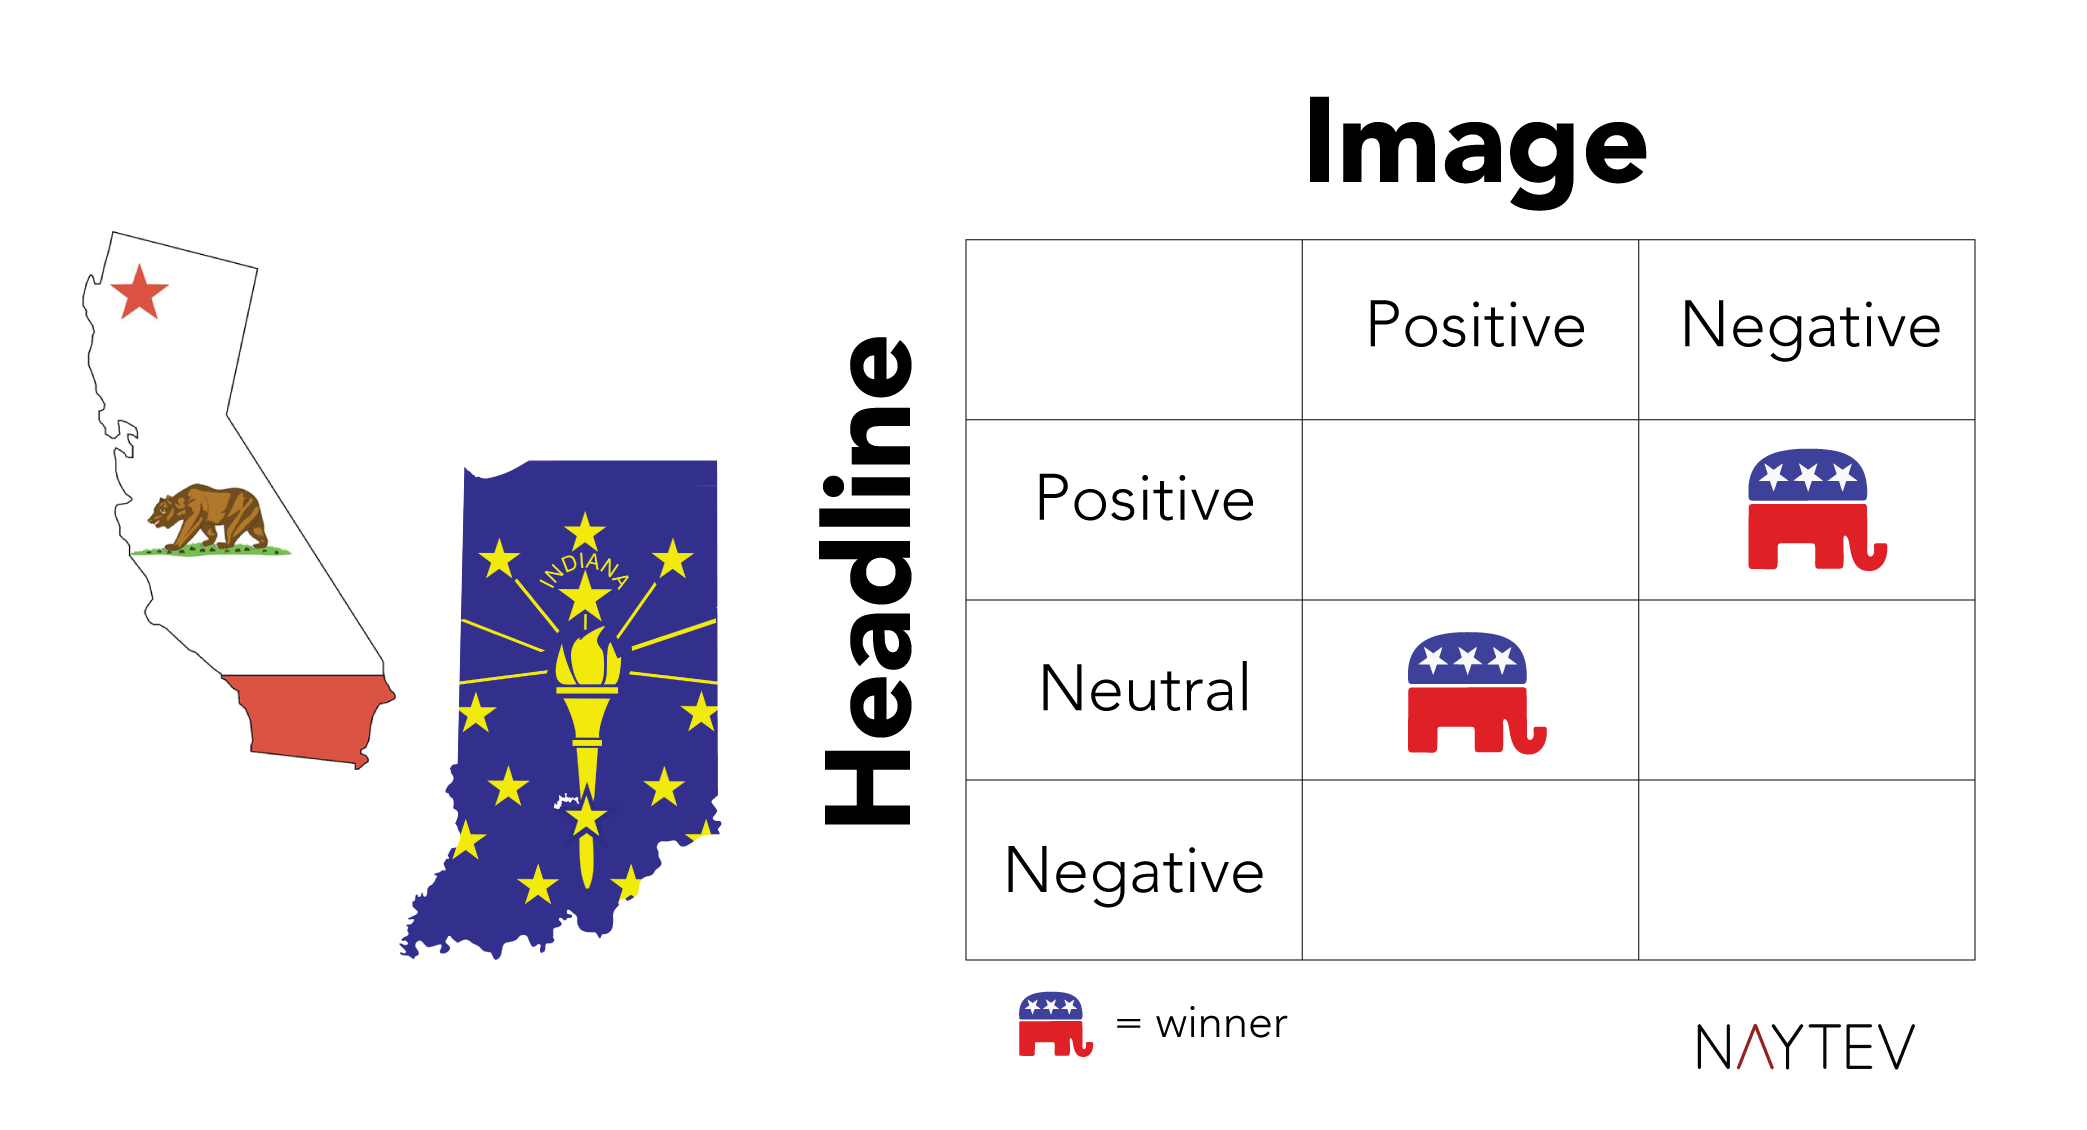
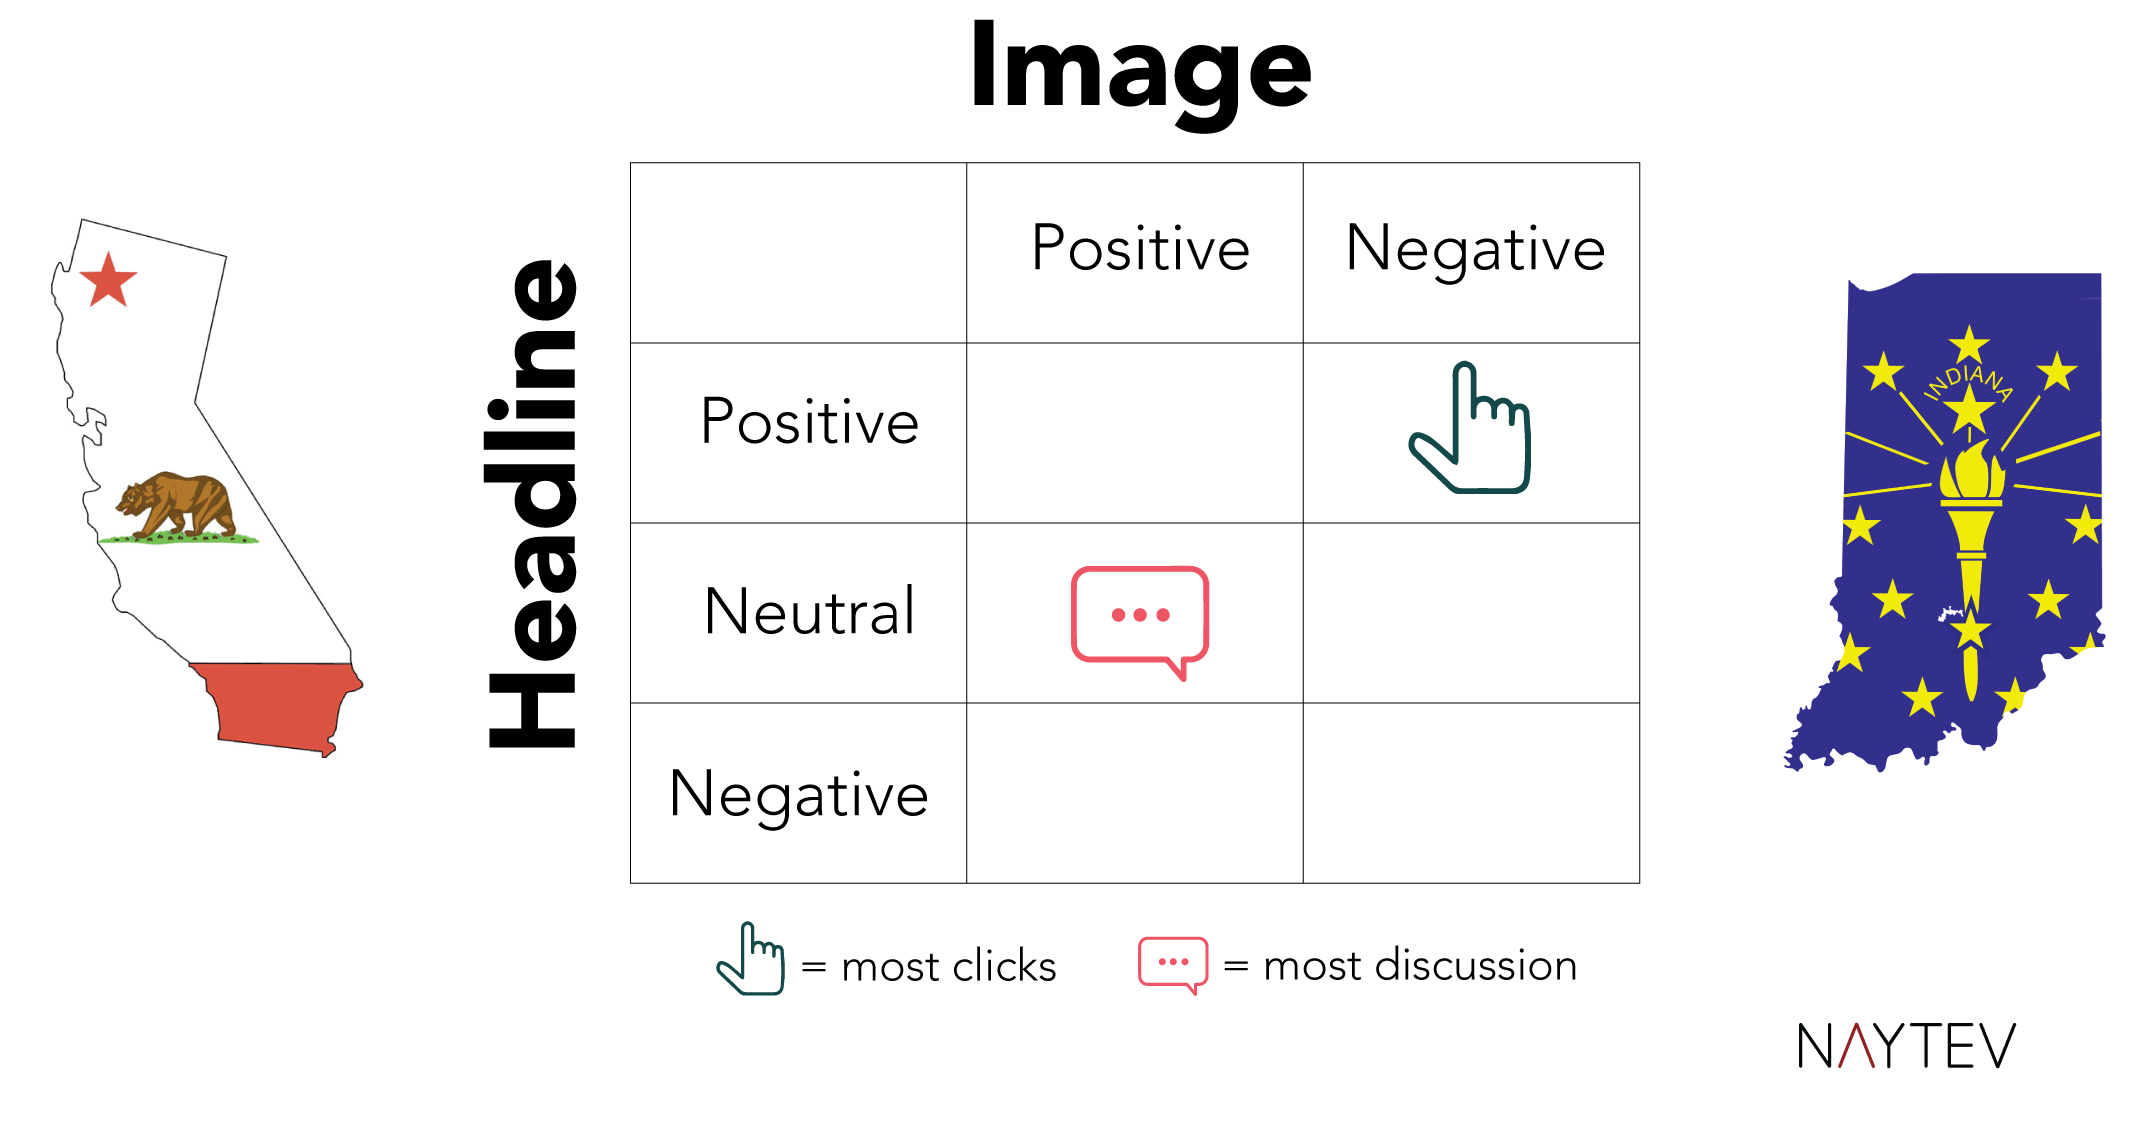
pic updates

diff --git a/_posts/2016-5-02-test-to-stop-trump.md b/_posts/2016-5-02-test-to-stop-trump.md
@@ -8,47 +8,48 @@ author: zack_liscio
 og_image: posts/stop-trump/trumpog.png
 ---
 
-With the seeming inevitability of Trump winning the Republican nomination, his campaign (and hopefully not the future of humanity) seems to hinge upon two states: Indiana and California. Writing in the New York Times, Nate Cohn says the two states ["crucial prizes that would put Mr. Trump over the top"](http://www.nytimes.com/2016/04/27/upshot/why-donald-trump-is-probably-two-states-from-victory.html). We decided to try a small experiment to see how we could use Facebook's rich targeting data and powerful distribution to tip the scales in these races. To explore the concept, we tested different versions of Trump-related messaging to find the optimal way to capture attention among the voters he needs to win. 
+With the seeming inevitability of Trump winning the Republican nomination, his campaign (and hopefully not the future of humanity) seems to hinge upon two states: Indiana and California. Writing in the New York Times, Nate Cohn says the two states are ["crucial prizes that would put Mr. Trump over the top"](http://www.nytimes.com/2016/04/27/upshot/why-donald-trump-is-probably-two-states-from-victory.html). We decided to try a small experiment to see how we could use Facebook's rich targeting data and powerful distribution to tip the scales in these races. To explore the concept, we tested different versions of Trump-related messaging to find the optimal way to capture attention among the voters he needs to win. 
 
-In order to theoretically stop Trump, we would need to convince those who would vote for him that he shouldn't be President. First, we need to figure out how to capture their attention. This post explores how to use A/B testing on Facebook to find the ideal messaging (positive vs. negative) to maximize engagement among the population likely to vote for him. 
+In order to theoretically stop Trump, we would need to convince those who would vote for him that he shouldn't be President. First, we need to figure out how to capture their attention. This post explores how to use A/B testing on Facebook to find the ideal messaging (positive vs. negative) to maximize engagement among the population likely to vote for Trump. 
 
-We recognize that while this test is an interesting exploration of which messages are best at capturing attention (acquisition), that's not a substitute for changing minds (conversion). That said, competing for visibility in the Facebook News Feed is an essential part of communications and reaching this target audience is a prerequisite for influencing their behavior.
+We recognize that while this test is an interesting exploration of which messaging captures voter attention (acquisition), this test doesn't focus on which messaging could change voters' minds (conversion). That said, competing for visibility in the Facebook News Feed is an essential part of communications and reaching voters is a prerequisite for influencing their behavior.
 
-It's worth mentioning that we not a political advertising agency, strategy firm, or in any way related to the race beyond watching with fascination.
+It's worth mentioning that we're not a political advertising agency, strategy firm, or in any way related to the race beyond watching as fascinated observers.
 
 To get our test started, we set a few constraints for ourselves:
 
-* **Timeframe:** with only a few days before the Indiana Primary, we set the ads to run over the course of 24 hours
-* **Budget:** we limited budget to $200, and allowed ourselves to use our own <a href='https://www.naytev.com' target="_blank">testing software</a> for free. It would also be possible to run this exact test directly through Facebook's Power Editor, just more time-consuming. Each variation on the message is created as a Facebook Unpublished Page Post and compared in terms of engagement.
+* **Timeframe:** with only a few days before the Indiana Primary, we set the test messages to run over the course of 24 hours
+* **Budget:** we limited the test budget to $200, and allowed ourselves to use our own <a href='https://www.naytev.com' target="_blank">testing software</a> for free. It would also be possible to run this exact test directly through Facebook's Power Editor, but doing so would take hours longer. Each variation on the message is created as a Facebook Unpublished Page Post ([aka Dark Posts]({% post_url 2015-9-20-what-and-why-is-dark-post-testing %})) and compared in terms of post engagement.
 
 Here's how we did it:
 
 * **1. Create Facebook Audiences**
-  Among the most important questions in this kind of test is who to target. Luckily, The Atlantic wrote an article about the demographics of Donald Trump supporters](http://www.theatlantic.com/politics/archive/2016/03/who-are-donald-trumps-supporters-really/471714/). The articles points out that the "single best predictor of Trump support in the GOP primary is the absence of a college degree." The New York Times [corroborated this finding](http://www.nytimes.com/2016/03/13/upshot/the-geography-of-trumpism.html), so we used it as our targeting criteria to design two Facebook Audiences, one for Indiana and one for California, where we're interested in changing hearts and minds.
+  Among the most important questions in this kind of test is who to target. Luckily, The Atlantic wrote an [article about the demographics of Donald Trump supporters](http://www.theatlantic.com/politics/archive/2016/03/who-are-donald-trumps-supporters-really/471714/). The article points out that the "single best predictor of Trump support in the GOP primary is the absence of a college degree." The New York Times [corroborated this finding](http://www.nytimes.com/2016/03/13/upshot/the-geography-of-trumpism.html), so we focused on voting age adults (18+) without a college degree as our target audience in Indiana and California.
 
-  We created these audiences directly in Facebook's Power Editor: Audiences >> Create Audience >> Saved Audience so that we could target by any data Facebook has available. For good measure, we also included people with an interest in "Donald Trump".
+  We created our target audiences for each state directly in Facebook's Power Editor: Audiences >> Create Audience >> Saved Audience so that we could target by any data Facebook has available.
 
 <div class="full zoomable"><img src="/images/posts/stop-trump/californiaresidents.png"></div>
 
-  Because the absence of a college degree was such a strong predictor, we excluded anyone with one from our test.
+  Because the absence of a college degree was such a strong predictor of support for Donald Trump, we excluded anyone with a degree from our test.
 
 <div class="full zoomable"><img src="/images/posts/stop-trump/education.png"></div>
 
-  Our final audiences have 1.7M people in Indiana and 12M people in California.
+  Our final audiences have 1.7 million people in Indiana and 12 million people in California.
 
-<div class="full zoomable"><img src="/images/posts/stop-trump/audiences.png"></div>  
+<div class="full zoomable"><img src="/images/posts/stop-trump/audiences.png"></div>
+*Facebook Audience of Adults Without College Degrees*  
 
 * **2. Design Test Messaging**
 
-  We want to convince voters that Trump is the wrong choice for their state. Let's test a handful of different messages and thumbnail images, varying positive vs. neutral vs. negative sentiments. As they're not frequently seen anyway, we didn't include descriptions. We also included the relevant state name for each.
+  We want to understand which style of messaging best engages voters who fall within the core base of Trump voters. Let's test different messages and thumbnail images, varying positive vs. neutral vs. negative sentiments. We didn't include descriptions, as they're not frequently seen anyway. We also included the relevant state name for each message.
 
-  ##### Post Message:
-  - We kept the post message constant across all variants: The [Indiana, California] Republican Primary is coming up soon
+  ##### Post Text:
+  - We kept the post text, which is the messaging that appears above the image in a Facebook post, constant and neutral for all message variants: "The [Indiana, California] Republican Primary is coming up soon"
 
   ##### Headlines:
-  - Positive: Why you should vote Trump if you live in [Indiana, California]
-  - Neutral: Should you vote for Donald Trump if you live in [Indiana, California]?
-  - Negative: Trump Would be a Disaster for [Indiana, California]
+  - Positive: "Why you should vote Trump if you live in [Indiana, California]"
+  - Neutral: "Should you vote for Donald Trump if you live in [Indiana, California]?"
+  - Negative: "Trump Would be a Disaster for [Indiana, California]"
 
   ##### Images:
   - Positive: We used Trump's own official image from his campaign website
@@ -56,39 +57,40 @@ Here's how we did it:
   - Neutral: We didn't include a "neutral" image as we couldn't find a Trump shot that our team could agree was neutral.
 
   ###### Call To Action:
-  For all of our message variants, we sent the clicks from the ads to [ISideWith.com](https://www.isidewith.com/), a non-partisan site that helps voters understand which candidate aligns with their views. It would be incredibly interesting to see how we can influence conversion for a specific call to action using different presentations of content in the News Feed, but we'll save that for another day.
+  We arranged for all test messages to direct post clicks to [ISideWith.com](https://www.isidewith.com/), a non-partisan website that helps voters understand which candidate aligns with their views. It would be incredibly interesting to see how we can influence conversion for a specific call to action using different presentations of content in the News Feed, but we'll save that for another day.
 
 * **3. Run Dark Tests**
 
-  We loaded all of our versions of the headlines and images into Naytev and generated every available combination (2 images x 3 headlines = 6 messages per test), and paired each state's messaging with its' audience. The tests each received $100 in Facebook Ad Spend to test their messages.
+  We loaded all of our versions of the headlines and images into Naytev, generated every available combination (2 images x 3 headlines = 6 messages per test), and paired each state's messaging with its respective audience. Pairing messages created some mixed sentiment posts (e.g. silly Trump image + pro Trump headline), which we were curious to evaluate too. We applied a $100 ad spend for both the California and Indiana test messages, for a total spend of $200.
 
 <div class="full zoomable"><img src="/images/posts/stop-trump/california.png"></div>
+*Preview of California Test Messages: Positive, Negative, Neutral, and Mixed*
 
 * **4. Analyze Results**
 
-  Here are the finished results of the test for California:
+  Here are the finished results:
 
 <div class="full zoomable"><img src="/images/posts/stop-trump/californiaresults.png"></div>
-
-  and Indiana: 
+*California Results: Slightly Pro-Trump Message Engages Most*
 
 <div class="full zoomable"><img src="/images/posts/stop-trump/indianaresults.png"></div>
+*Indiana Results: Similar Messaging Ranking, but Weaker Discourse than California*
 
   What did we learn? Here are our main takeaways:
 
-  - There is no single "all-purpose best" messaging, and the optimal combination of messaging depends on your goal. For instance, the message combinations with the highest engagement (mostly comments and re-shares) was different in both states from the message with the highest clickthrough rate (CTR) and loweest cost per click (CPC).
+  - There is no single "all-purpose best" messaging, and the optimal combination of messaging depends on your goal. For instance, the message combinations with the highest engagement (mostly comments and re-shares) was different in both states from the message with the highest clickthrough rate (CTR) and lowest cost per click (CPC).
 
-  - The neutral headline phrased as a question drove the highest post engagement in both states. Asking whether voters should vote for Trump in their state incited an enormous volume of comments (over 200 on each of the top messages). This a great way to generate visibility through conversation, but ultimately much harder to control, as the conversations quickly degenerated into vile namecalling. 
+  - The neutral headline phrased as a question drove the highest post engagement in both states. Asking whether voters should vote for Trump in their state incited an enormous volume of comments (over 200 on each of the top messages). This a great way to generate visibility through conversation, but ultimately much harder to control, as the conversations quickly degenerated into vile name calling. 
 
 <div class="full zoomable"><img src="/images/posts/stop-trump/dissonance.png"></div>
 
-  - The negative image / positive headline combination (above) generated the highest clickthrough and lowest cost per click in both states. We believe that the dissonance of the pairing created a strong curiosity gap without triggering readers' clickbait senses. These message combinations take a strong opinion in one direction, so it's unsurprising that they perform well. As Refinery29 point out, ["Titles with negative qualifiers have on average 135% more comments per article than other stories and 28% more shares"](http://intelligence.r29.com/post/123550777526/3-ways-to-immediately-make-your-facebook-posts). In the case of our test, the question headline seems to encouraged divisive comments which themselves yielded continued high engagement.
+  - **The negative image / positive headline combination (above) generated the highest CTR and lowest CPC in both states.** We believe that the dissonance of the pairing created a strong curiosity gap without triggering readers' clickbait senses. These message combinations take a strong opinion in one direction, so it's unsurprising that they perform well. As Refinery29 points out, ["Titles with negative qualifiers have on average 135% more comments per article than other stories and 28% more shares"](http://intelligence.r29.com/post/123550777526/3-ways-to-immediately-make-your-facebook-posts). In the case of our test, the question headline seems to encouraged divisive comments which themselves yielded continued high engagement.
 
-  - People are commenting without clicking through to the article. The top message in California had hundreds of comments but only 73 clicks. Additionally, the link would have directed them to a non-partisan site helping explore which candidates match the users view, so no strong opinions there. The vast majority of people who engaged with our test were willing to add their opinion to the comment thread without feeling any obligation to read the link they were commenting on.
+  - **People are commenting without clicking through.** The top message in California had hundreds of comments but only 73 clicks. Additionally, the link would have directed them to a non-partisan site helping explore which candidates match the user's view, so no strong opinions there. The vast majority of people who engaged with our test were willing to add their opinion to the comment thread without feeling any obligation to read the link they were commenting on.
 
 <div class="full zoomable"><img src="/images/posts/stop-trump/results.png"></div> 
 
-  So, how does this help us stop Trump? Anyone using Facebook in the past year (all 1.6bn of us) have noticed that the upcoming election is a hot topic. For better or worse, our reality is that the News Feed is increasingly the place where ideas are discovered, consumed, and debated. Those able to harness the power of digital [will win elections]({% post_url 2015-1-9-how-to-win-2016-elections-6-cutting-edge-digital-tactics %}), and testing helps us do that effectively and refine our tactics as we learn. If we hope to change minds, the first step is understanding how to reach them on their terms and in ways that engage them. Only then do we have a chance of preventing the Drumpf.
+  So, how does this help us stop Trump? Anyone using Facebook in the past year (all 1.6bn of us) has noticed that the upcoming election is a hot topic. For better or worse, our reality is that the News Feed is increasingly the place where ideas are discovered, consumed, and debated. Those able to harness the power of digital [will win elections]({% post_url 2015-1-9-how-to-win-2016-elections-6-cutting-edge-digital-tactics %}), and testing helps us do that effectively and refine our tactics as we learn. If we hope to change minds, the first step is understanding how to reach voters on their terms and in ways that engage them. Only then do we have a chance of preventing [the Donald Drumpf](https://www.youtube.com/watch?v=DnpO_RTSNmQ).
 
 
 Thanks for reading and please also [register to vote](https://www.usa.gov/register-to-vote)!
